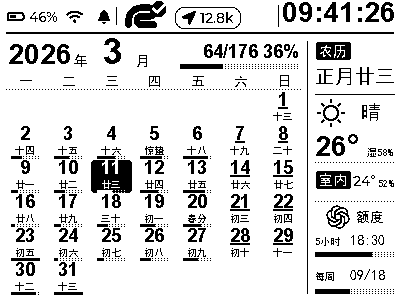
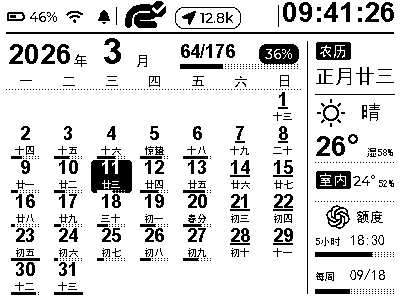
Add percent capsule to monthly work summary in main screen

Changed region(s): [[0.45, 0.15, 0.75, 0.24]]

diff --git a/firmware/components/app_ui/main_screen.cpp b/firmware/components/app_ui/main_screen.cpp
@@ -7,7 +7,10 @@
 #include <math.h>
 #include <time.h>
 
-static lv_obj_t *s_time, *s_year, *s_month, *s_total, *s_status, *s_race_check, *s_points;
+static lv_obj_t *s_time, *s_year, *s_month, *s_status, *s_race_check, *s_points;
+/* 工时摘要：数字行（已记/应记）+ 下方细条，右侧百分比胶囊。
+ * 数字用 digits_18（与日期格一致），百分比用反白圆角胶囊（与状态栏 IP 胶囊呼应）。 */
+static lv_obj_t *s_total_num, *s_total_capsule, *s_total_pct_text;
 static lv_obj_t *s_lunar_full, *s_weather, *s_temperature, *s_humidity, *s_weather_image, *s_bell, *s_ai[2], *s_remind;
 static lv_obj_t *s_cell[42], *s_day[42], *s_lunar[42], *s_track[42], *s_fill[42];
 static lv_obj_t *s_summary_fill, *s_ai_fill[2];
@@ -82,6 +85,35 @@ static lv_obj_t *label(lv_obj_t *p, const char *text, const lv_font_t *font, int
     if (w) { lv_obj_set_width(o, w); lv_label_set_long_mode(o, LV_LABEL_LONG_CLIP); }
     return o;
 }
+/* 百分比胶囊：黑底圆角，只包住“36%”数字，与 IP 胶囊呼应 */
+static lv_obj_t *capsule(lv_obj_t *p, const char *text, const lv_font_t *font, int x, int y) {
+    lv_obj_t *o = lv_obj_create(p);
+    lv_obj_remove_style_all(o);
+    lv_obj_set_pos(o, x, y);
+    lv_obj_set_style_bg_color(o, lv_color_black(), 0);
+    lv_obj_set_style_bg_opa(o, LV_OPA_COVER, 0);
+    lv_obj_set_style_radius(o, 8, 0);
+    lv_obj_clear_flag(o, LV_OBJ_FLAG_SCROLLABLE);
+    lv_obj_t *t = lv_label_create(o);
+    lv_obj_remove_style_all(t);
+    lv_obj_set_style_text_font(t, font, 0);
+    lv_obj_set_style_text_color(t, lv_color_white(), 0);
+    lv_label_set_text(t, text);
+    lv_obj_align(t, LV_ALIGN_CENTER, 0, 0);
+    return o;
+}
+/* 胶囊宽度跟随百分比文字：数字撑开 + 左右各 6 像素内边距，右边缘固定 */
+static void capsule_refresh(lv_obj_t *capsule_box, lv_obj_t *text, const char *v, int right_edge, int h) {
+    if (!capsule_box || !text || !v) return;
+    if (strcmp(lv_label_get_text(text), v)) lv_label_set_text(text, v);
+    lv_obj_update_layout(text);
+    int w = (int)lv_obj_get_width(text) + 12;
+    if (w < 26) w = 26;
+    lv_obj_set_size(capsule_box, w, h);
+    int x = right_edge - w;
+    lv_obj_set_x(capsule_box, x < 0 ? 0 : x);
+}
+
 static void draw_dots(lv_event_t *e) {
     lv_obj_t *o = lv_event_get_target(e);
     lv_area_t a; lv_obj_get_coords(o, &a);
@@ -202,8 +234,13 @@ void main_screen_init(int width, int height) {
     s_month = label(scr, "--", &lv_font_digits_36, 92, 37, 42);
     lv_obj_set_style_text_align(s_month, LV_TEXT_ALIGN_CENTER, 0);
     label(scr, "月", &lv_font_zh_14, 136, 53);
-    s_total = label(scr, "0/0 0%", &lv_font_digits_18, 163, 44, 136);
-    lv_obj_set_style_text_align(s_total, LV_TEXT_ALIGN_RIGHT, 0);
+    /* 本月工时：左侧「已记/应记」数字行（digits_18，与下方进度条左对齐 x=180），右侧反白圆角百分比胶囊 */
+    s_total_num = label(scr, "0/0", &lv_font_digits_18, 180, 44, 80);
+    lv_obj_set_style_text_align(s_total_num, LV_TEXT_ALIGN_LEFT, 0);
+    lv_obj_t *capsule_box = capsule(scr, "0%", &lv_font_montserrat_14, 241, 44);
+    s_total_capsule = capsule_box;
+    s_total_pct_text = lv_obj_get_child(capsule_box, 0);
+    capsule_refresh(s_total_capsule, s_total_pct_text, "0%", 299, 20);
     meter(scr, 180, 64, 119, 5, &s_summary_fill);
     const char *wh[] = {"一", "二", "三", "四", "五", "六", "日"};
     for (int i = 0; i < 7; ++i) {
@@ -311,14 +348,17 @@ void main_screen_update_summary(float recorded, float expected, const char *weat
                                 const ai_provider_t *ai5h, const ai_provider_t *aiweek, bool synced, int points,
                                 float indoor_temp, float indoor_humidity) {
     char b[96];
-    /* 本月工时占比：没有记录就是 0，没拿到“应记录”也不显示 -- */
+    /* 本月工时：没有记录就是 0，没拿到"应记录"也不显示 --。
+     * 左侧纯数字行（已记/应记），右侧反白圆角胶囊只装百分比，下面细条同步进度。 */
     float shown_recorded = isfinite(recorded) && recorded > 0 ? recorded : 0;
     float shown_expected = isfinite(expected) && expected > 0 ? expected : 0;
     float percent = shown_expected > 0 ? shown_recorded / shown_expected * 100.0f : 0;
     if (!isfinite(percent) || percent < 0) percent = 0;
     if (percent > 999) percent = 999;
-    snprintf(b, sizeof(b), "%.0f/%.0f %.0f%%", shown_recorded, shown_expected, percent);
-    text_changed(s_total, b);
+    snprintf(b, sizeof(b), "%.0f/%.0f", shown_recorded, shown_expected);
+    text_changed(s_total_num, b);
+    snprintf(b, sizeof(b), "%.0f%%", percent);
+    capsule_refresh(s_total_capsule, s_total_pct_text, b, 299, 20);
     set_meter(s_summary_fill, percent, 119);
     if (synced && !s_offline) lv_obj_clear_flag(s_race_check, LV_OBJ_FLAG_HIDDEN);
     else lv_obj_add_flag(s_race_check, LV_OBJ_FLAG_HIDDEN);
